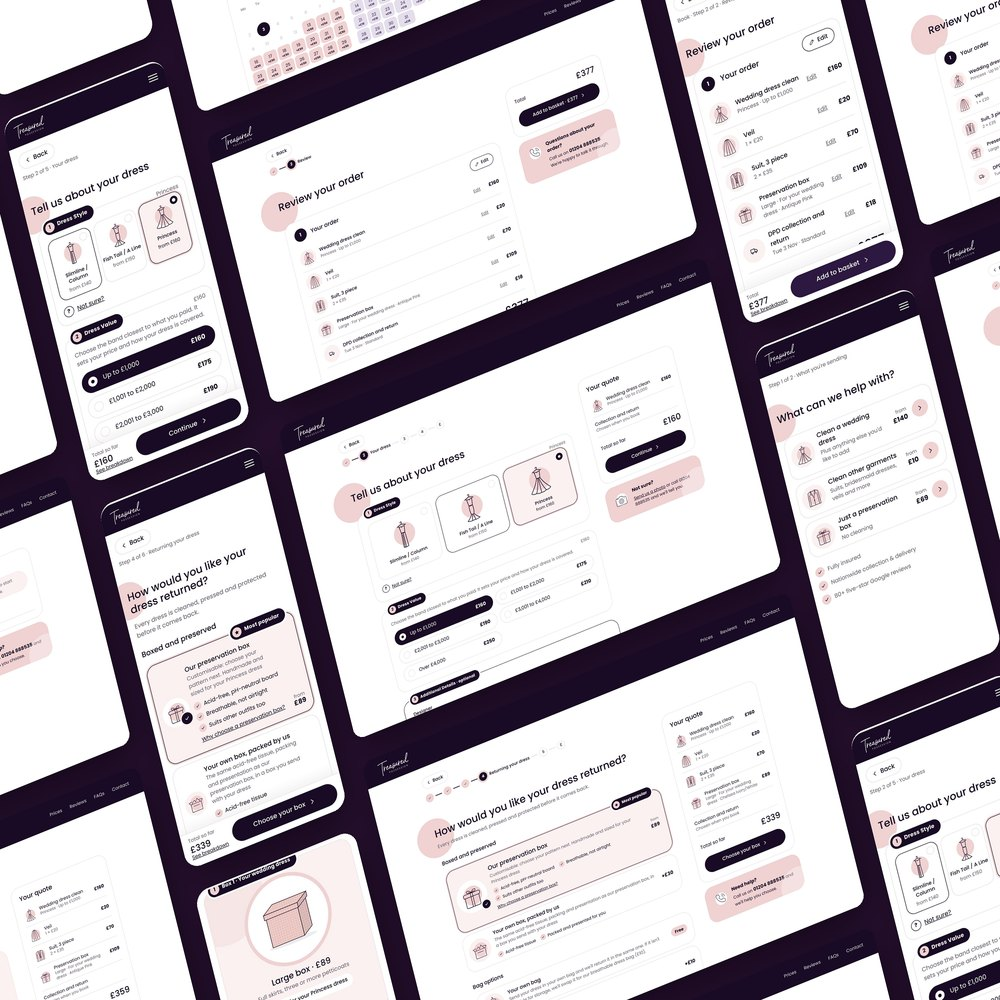
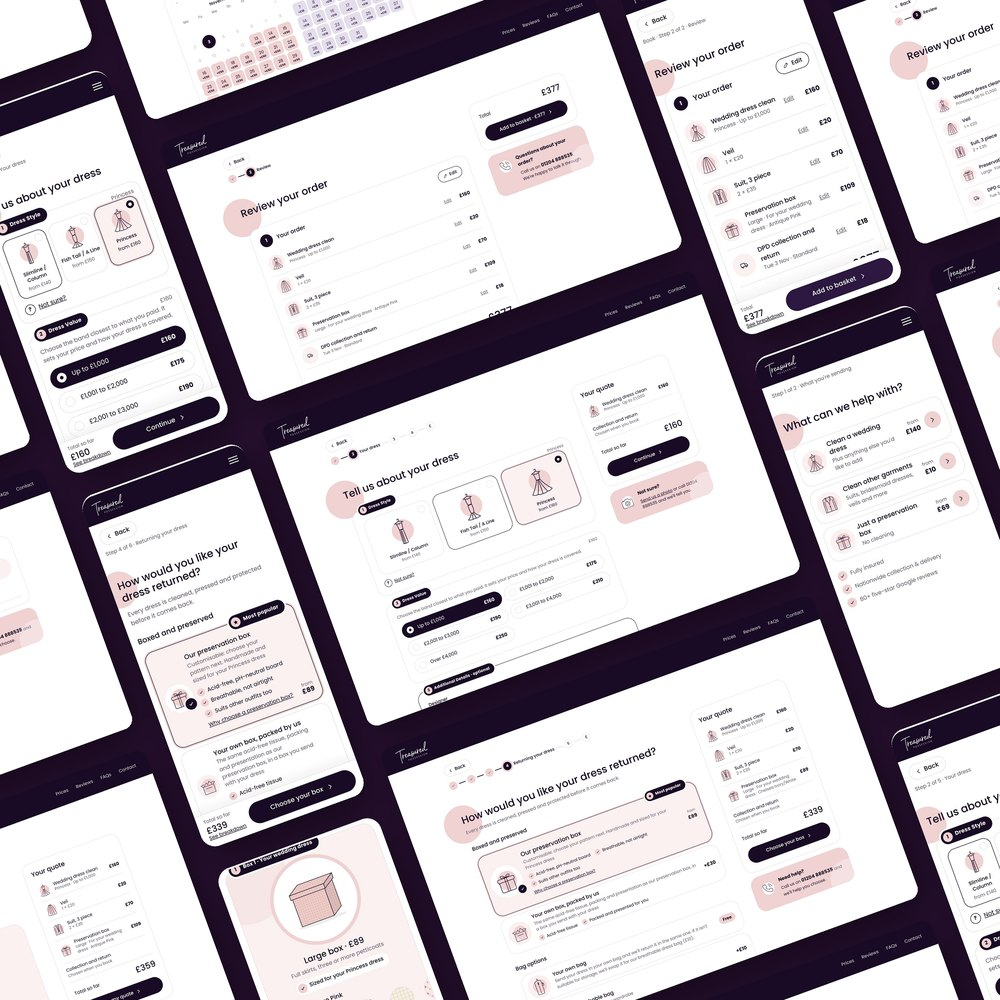
Add files via upload

diff --git a/index.html b/index.html
@@ -165,7 +165,7 @@ html, body {
           <a href="asda-experiential-hubs" class="portfolio-card scroll-reveal sr-d1"><div class="portfolio-card-img" style="background-image:url('/img/portfolio/thumbnail/thumb-n-experiential-hubs.jpg')"></div><div class="portfolio-card-overlay"></div><div class="portfolio-card-inner"><span class="portfolio-tag">Product · UX Strategy</span><h3>Asda Experiential Hubs</h3><div class="portfolio-card-arrow">View Project <svg viewBox="0 0 24 24" fill="none" stroke="currentColor" stroke-width="2.5" stroke-linecap="round" stroke-linejoin="round"><line x1="7" y1="17" x2="17" y2="7"/><polyline points="7 7 17 7 17 17"/></svg></div></div></a>
           <a href="asda-design-guidelines" class="portfolio-card scroll-reveal sr-d3"><div class="portfolio-card-img" style="background-image:url('/img/portfolio/thumbnail/thumb-n-design-guidelines.jpg')"></div><div class="portfolio-card-overlay"></div><div class="portfolio-card-inner"><span class="portfolio-tag">UX · Strategy</span><h3>Asda Design Guidelines</h3><div class="portfolio-card-arrow">View Project <svg viewBox="0 0 24 24" fill="none" stroke="currentColor" stroke-width="2.5" stroke-linecap="round" stroke-linejoin="round"><line x1="7" y1="17" x2="17" y2="7"/><polyline points="7 7 17 7 17 17"/></svg></div></div></a>
           <a href="asda-bespoke-web-pages" class="portfolio-card scroll-reveal sr-d2"><div class="portfolio-card-img" style="background-image:url('/img/portfolio/thumbnail/thumb-n-branded-zones.jpg')"></div><div class="portfolio-card-overlay"></div><div class="portfolio-card-inner"><span class="portfolio-tag">Web · Branding</span><h3>Asda Branded Zones</h3><div class="portfolio-card-arrow">View Project <svg viewBox="0 0 24 24" fill="none" stroke="currentColor" stroke-width="2.5" stroke-linecap="round" stroke-linejoin="round"><line x1="7" y1="17" x2="17" y2="7"/><polyline points="7 7 17 7 17 17"/></svg></div></div></a>
-          <a href="lha-london-ux" class="portfolio-card scroll-reveal sr-d2"> <div class="portfolio-card-img" style="background-image:url('/img/portfolio/UX%20design/lha-ux.jpg')"></div> <div class="portfolio-card-overlay"></div> <div class="portfolio-card-inner"> <span class="portfolio-tag">UX · Design</span> <h3>LHA London UX</h3> <div class="portfolio-card-arrow">View Project <svg viewBox="0 0 24 24" fill="none" stroke="currentColor" stroke-width="2.5" stroke-linecap="round" stroke-linejoin="round"><line x1="7" y1="17" x2="17" y2="7"/><polyline points="7 7 17 7 17 17"/></svg></div> </div> </a>
+          <a href="lha-london-ux" class="portfolio-card scroll-reveal sr-d2"> <div class="portfolio-card-img" style="background-image:url('/img/portfolio/thumbnail/thumb-n-lha.jpg')"></div> <div class="portfolio-card-overlay"></div> <div class="portfolio-card-inner"> <span class="portfolio-tag">UX · Design</span> <h3>LHA London UX</h3> <div class="portfolio-card-arrow">View Project <svg viewBox="0 0 24 24" fill="none" stroke="currentColor" stroke-width="2.5" stroke-linecap="round" stroke-linejoin="round"><line x1="7" y1="17" x2="17" y2="7"/><polyline points="7 7 17 7 17 17"/></svg></div> </div> </a>
           <a href="sushi-restaurant-app" class="portfolio-card scroll-reveal sr-d1"><div class="portfolio-card-img" style="background-image:url('/img/portfolio/sora-sushi/thumb-sora-sushi-2.jpg')"></div><div class="portfolio-card-overlay"></div><div class="portfolio-card-inner"><span class="portfolio-tag">UX · Branding</span><h3>UX Mobile App Design</h3><div class="portfolio-card-arrow">View Project <svg viewBox="0 0 24 24" fill="none" stroke="currentColor" stroke-width="2.5" stroke-linecap="round" stroke-linejoin="round"><line x1="7" y1="17" x2="17" y2="7"/><polyline points="7 7 17 7 17 17"/></svg></div></div></a>
           <a href="print-projects" class="portfolio-card scroll-reveal sr-d2" style="grid-row: span 1;"><div class="portfolio-card-img" style="background-image:url('/img/portfolio/thumbnail/thumb-n-sheffield.png')"></div><div class="portfolio-card-overlay"></div><div class="portfolio-card-inner"><span class="portfolio-tag">Print</span><h3>Print Projects</h3><div class="portfolio-card-arrow">View Project <svg viewBox="0 0 24 24" fill="none" stroke="currentColor" stroke-width="2.5" stroke-linecap="round" stroke-linejoin="round"><line x1="7" y1="17" x2="17" y2="7"/><polyline points="7 7 17 7 17 17"/></svg></div></div></a>
           <a href="digital-design-logos" class="portfolio-card scroll-reveal sr-d3"><div class="portfolio-card-img" style="background-image:url('/img/portfolio/Logos-Showcase-2.jpg')"></div><div class="portfolio-card-overlay"></div><div class="portfolio-card-inner"><span class="portfolio-tag">Design · Motion</span><h3>Digital Design, Logos &amp; Motion Graphics</h3><div class="portfolio-card-arrow">View Project <svg viewBox="0 0 24 24" fill="none" stroke="currentColor" stroke-width="2.5" stroke-linecap="round" stroke-linejoin="round"><line x1="7" y1="17" x2="17" y2="7"/><polyline points="7 7 17 7 17 17"/></svg></div></div></a>

diff --git a/treasured-possession.html b/treasured-possession.html
@@ -784,7 +784,7 @@
         <a href="/#portfolio" class="scroll-reveal">View all projects <svg viewBox="0 0 24 24" fill="none" stroke="currentColor" stroke-width="2.5" stroke-linecap="round" stroke-linejoin="round" aria-hidden="true"><line x1="5" y1="12" x2="19" y2="12"/><polyline points="12 5 19 12 12 19"/></svg></a>
       </div>
       <div class="cs-more-grid">
-        <a href="lha-london-ux" class="portfolio-card scroll-reveal sr-d1"><div class="portfolio-card-img" style="background-image:url('/img/portfolio/UX%20design/lha-ux.jpg')"></div><div class="portfolio-card-overlay"></div><div class="portfolio-card-inner"><span class="portfolio-tag">UX · Design</span><h3>LHA London UX</h3><div class="portfolio-card-arrow">View Project <svg viewBox="0 0 24 24" fill="none" stroke="currentColor" stroke-width="2.5" stroke-linecap="round" stroke-linejoin="round"><line x1="7" y1="17" x2="17" y2="7"/><polyline points="7 7 17 7 17 17"/></svg></div></div></a>
+        <a href="lha-london-ux" class="portfolio-card scroll-reveal sr-d1"><div class="portfolio-card-img" style="background-image:url('/img/portfolio/thumbnail/thumb-n-lha.jpg')"></div><div class="portfolio-card-overlay"></div><div class="portfolio-card-inner"><span class="portfolio-tag">UX · Design</span><h3>LHA London UX</h3><div class="portfolio-card-arrow">View Project <svg viewBox="0 0 24 24" fill="none" stroke="currentColor" stroke-width="2.5" stroke-linecap="round" stroke-linejoin="round"><line x1="7" y1="17" x2="17" y2="7"/><polyline points="7 7 17 7 17 17"/></svg></div></div></a>
         <a href="asda-design-guidelines" class="portfolio-card scroll-reveal sr-d2"><div class="portfolio-card-img" style="background-image:url('/img/portfolio/thumbnail/thumb-n-design-guidelines.jpg')"></div><div class="portfolio-card-overlay"></div><div class="portfolio-card-inner"><span class="portfolio-tag">UX · Strategy</span><h3>Asda Design Guidelines</h3><div class="portfolio-card-arrow">View Project <svg viewBox="0 0 24 24" fill="none" stroke="currentColor" stroke-width="2.5" stroke-linecap="round" stroke-linejoin="round"><line x1="7" y1="17" x2="17" y2="7"/><polyline points="7 7 17 7 17 17"/></svg></div></div></a>
         <a href="sushi-restaurant-app" class="portfolio-card scroll-reveal sr-d3"><div class="portfolio-card-img" style="background-image:url('/img/portfolio/sora-sushi/thumb-sora-sushi-2.jpg')"></div><div class="portfolio-card-overlay"></div><div class="portfolio-card-inner"><span class="portfolio-tag">UX · Branding</span><h3>UX Mobile App Design</h3><div class="portfolio-card-arrow">View Project <svg viewBox="0 0 24 24" fill="none" stroke="currentColor" stroke-width="2.5" stroke-linecap="round" stroke-linejoin="round"><line x1="7" y1="17" x2="17" y2="7"/><polyline points="7 7 17 7 17 17"/></svg></div></div></a>
       </div>

diff --git a/website-design.html b/website-design.html
@@ -574,7 +574,7 @@
         <a href="/#portfolio" class="scroll-reveal">View all projects →</a>
       </div>
       <div class="cs-more-grid">
-        <a href="lha-london-ux" class="portfolio-card scroll-reveal sr-d1"><div class="portfolio-card-img" style="background-image:url('/img/portfolio/UX%20design/lha-ux.jpg')"></div><div class="portfolio-card-overlay"></div><div class="portfolio-card-inner"><span class="portfolio-tag">UX · Design</span><h3>LHA London UX</h3></div></a>
+        <a href="lha-london-ux" class="portfolio-card scroll-reveal sr-d1"><div class="portfolio-card-img" style="background-image:url('/img/portfolio/thumbnail/thumb-n-lha.jpg')"></div><div class="portfolio-card-overlay"></div><div class="portfolio-card-inner"><span class="portfolio-tag">UX · Design</span><h3>LHA London UX</h3></div></a>
         <a href="asda-bespoke-web-pages" class="portfolio-card scroll-reveal sr-d2"><div class="portfolio-card-img" style="background-image:url('/img/portfolio/thumbnail/thumb-n-branded-zones.jpg')"></div><div class="portfolio-card-overlay"></div><div class="portfolio-card-inner"><span class="portfolio-tag">Web · Branding</span><h3>Asda Branded Zones</h3></div></a>
         <a href="asda-design-guidelines" class="portfolio-card scroll-reveal sr-d3"><div class="portfolio-card-img" style="background-image:url('/img/portfolio/thumbnail/thumb-n-design-guidelines.jpg')"></div><div class="portfolio-card-overlay"></div><div class="portfolio-card-inner"><span class="portfolio-tag">UX · Strategy</span><h3>Asda Design Guidelines</h3></div></a>
       </div>

diff --git a/sushi-restaurant-app.html b/sushi-restaurant-app.html
@@ -305,7 +305,7 @@ Mobile App</h1>
         <a href="/#portfolio" class="scroll-reveal">View all projects →</a>
       </div>
       <div class="cs-more-grid">
-        <a href="lha-london-ux" class="portfolio-card scroll-reveal"><div class="portfolio-card-img" style="background-image:url('/img/portfolio/UX%20design/lha-ux.jpg')"></div><div class="portfolio-card-overlay"></div><div class="portfolio-card-inner"><span class="portfolio-tag">UX · Design</span><h3>LHA London UX</h3></div></a>
+        <a href="lha-london-ux" class="portfolio-card scroll-reveal"><div class="portfolio-card-img" style="background-image:url('/img/portfolio/thumbnail/thumb-n-lha.jpg')"></div><div class="portfolio-card-overlay"></div><div class="portfolio-card-inner"><span class="portfolio-tag">UX · Design</span><h3>LHA London UX</h3></div></a>
         <a href="masaco-branding" class="portfolio-card scroll-reveal"><div class="portfolio-card-img" style="background-image:url('/img/portfolio/Masaco_Logo.png')"></div><div class="portfolio-card-overlay"></div><div class="portfolio-card-inner"><span class="portfolio-tag">Branding · Logo</span><h3>Masaco Brand Development</h3></div></a>
         <a href="asda-design-guidelines" class="portfolio-card scroll-reveal"><div class="portfolio-card-img" style="background-image:url('/img/portfolio/thumbnail/thumb-n-design-guidelines.jpg')"></div><div class="portfolio-card-overlay"></div><div class="portfolio-card-inner"><span class="portfolio-tag">UX · Strategy</span><h3>Asda Design Guidelines</h3></div></a>
       </div>

diff --git a/asda-bespoke-web-pages.html b/asda-bespoke-web-pages.html
@@ -685,7 +685,7 @@
       <div class="cs-more-grid">
         <a href="asda-experiential-hubs" class="portfolio-card scroll-reveal sr-d1"><div class="portfolio-card-img" style="background-image:url('/img/portfolio/thumbnail/thumb-n-experiential-hubs.jpg')"></div><div class="portfolio-card-overlay"></div><div class="portfolio-card-inner"><span class="portfolio-tag">Product · UX Strategy</span><h3>Asda Experiential Hubs</h3></div></a>
         <a href="asda-design-guidelines" class="portfolio-card scroll-reveal sr-d2"><div class="portfolio-card-img" style="background-image:url('/img/portfolio/thumbnail/thumb-n-design-guidelines.jpg')"></div><div class="portfolio-card-overlay"></div><div class="portfolio-card-inner"><span class="portfolio-tag">UX · Strategy</span><h3>Asda Design Guidelines</h3></div></a>
-        <a href="lha-london-ux" class="portfolio-card scroll-reveal sr-d3"><div class="portfolio-card-img" style="background-image:url('/img/portfolio/UX%20design/lha-ux.jpg')"></div><div class="portfolio-card-overlay"></div><div class="portfolio-card-inner"><span class="portfolio-tag">UX · Design</span><h3>LHA London UX</h3></div></a>
+        <a href="lha-london-ux" class="portfolio-card scroll-reveal sr-d3"><div class="portfolio-card-img" style="background-image:url('/img/portfolio/thumbnail/thumb-n-lha.jpg')"></div><div class="portfolio-card-overlay"></div><div class="portfolio-card-inner"><span class="portfolio-tag">UX · Design</span><h3>LHA London UX</h3></div></a>
       </div>
     </div>
   </section>

diff --git a/asda-design-guidelines.html b/asda-design-guidelines.html
@@ -438,7 +438,7 @@
       <div class="cs-more-grid">
         <a href="asda-experiential-hubs" class="portfolio-card scroll-reveal sr-d1"><div class="portfolio-card-img" style="background-image:url('/img/portfolio/thumbnail/thumb-n-experiential-hubs.jpg')"></div><div class="portfolio-card-overlay"></div><div class="portfolio-card-inner"><span class="portfolio-tag">Product · UX Strategy</span><h3>Asda Experiential Hubs</h3></div></a>
         <a href="asda-bespoke-web-pages" class="portfolio-card scroll-reveal sr-d2"><div class="portfolio-card-img" style="background-image:url('/img/portfolio/thumbnail/thumb-n-branded-zones.jpg')"></div><div class="portfolio-card-overlay"></div><div class="portfolio-card-inner"><span class="portfolio-tag">Web · Branding</span><h3>Asda Branded Zones</h3></div></a>
-        <a href="lha-london-ux" class="portfolio-card scroll-reveal sr-d3"><div class="portfolio-card-img" style="background-image:url('/img/portfolio/UX%20design/lha-ux.jpg')"></div><div class="portfolio-card-overlay"></div><div class="portfolio-card-inner"><span class="portfolio-tag">UX · Design</span><h3>LHA London UX</h3></div></a>
+        <a href="lha-london-ux" class="portfolio-card scroll-reveal sr-d3"><div class="portfolio-card-img" style="background-image:url('/img/portfolio/thumbnail/thumb-n-lha.jpg')"></div><div class="portfolio-card-overlay"></div><div class="portfolio-card-inner"><span class="portfolio-tag">UX · Design</span><h3>LHA London UX</h3></div></a>
       </div>
     </div>
   </section>

diff --git a/asda-experiential-hubs.html b/asda-experiential-hubs.html
@@ -508,7 +508,7 @@
       <div class="cs-more-grid">
         <a href="asda-design-guidelines" class="portfolio-card scroll-reveal sr-d1"><div class="portfolio-card-img" style="background-image:url('/img/portfolio/thumbnail/thumb-n-design-guidelines.jpg')"></div><div class="portfolio-card-overlay"></div><div class="portfolio-card-inner"><span class="portfolio-tag">UX · Strategy</span><h3>Asda Design Guidelines</h3></div></a>
         <a href="asda-bespoke-web-pages" class="portfolio-card scroll-reveal sr-d2"><div class="portfolio-card-img" style="background-image:url('/img/portfolio/thumbnail/thumb-n-branded-zones.jpg')"></div><div class="portfolio-card-overlay"></div><div class="portfolio-card-inner"><span class="portfolio-tag">Web · Branding</span><h3>Asda Branded Zones</h3></div></a>
-        <a href="lha-london-ux" class="portfolio-card scroll-reveal sr-d3"><div class="portfolio-card-img" style="background-image:url('/img/portfolio/UX%20design/lha-ux.jpg')"></div><div class="portfolio-card-overlay"></div><div class="portfolio-card-inner"><span class="portfolio-tag">UX · Design</span><h3>LHA London UX</h3></div></a>
+        <a href="lha-london-ux" class="portfolio-card scroll-reveal sr-d3"><div class="portfolio-card-img" style="background-image:url('/img/portfolio/thumbnail/thumb-n-lha.jpg')"></div><div class="portfolio-card-overlay"></div><div class="portfolio-card-inner"><span class="portfolio-tag">UX · Design</span><h3>LHA London UX</h3></div></a>
       </div>
     </div>
   </section>
